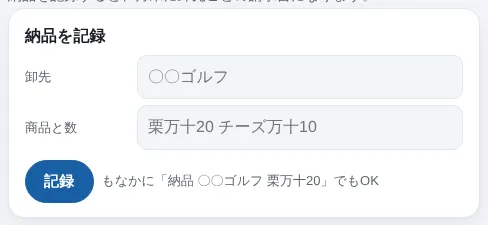
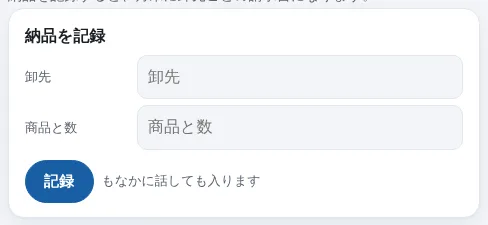
v57 例文・ガイド写真
Claude-Session: https://claude.ai/code/session_01RKx6zNUvUiXYPgLThj1DPE

Changed region(s): [[0.3074, 0.7778, 0.7684, 0.84], [0.3074, 0.5289, 0.6455, 0.5911], [0.3074, 0.3111, 0.4611, 0.3733]]

diff --git a/app/app.js b/app/app.js
@@ -107,7 +107,7 @@ function renderToday() {
   renderHero(q); renderMenu(q); renderGreet(); renderHomeProds();
   renderTodo(list); renderStart(); renderMemos(); renderHomeEvents(); renderBar(); renderCal(); renderReg();
   $('made').innerHTML = D.made.length ? `<ul class="tl">${D.made.map(m => `<li><span class="tt">${new Date(m.t).toLocaleDateString('ja-JP', { month: 'numeric', day: 'numeric' })}</span><span>${esc(m.text)}</span></li>`).join('')}</ul>`
-    : '<p class="k" style="margin:0">まだありません。夕方に' + VIA + '「栗万十 90、チーズ万十 100」のように送ると、ここに出ます</p>';
+    : '<p class="k" style="margin:0">まだありません。作った数をもなかに話すと、ここに出ます</p>';
 }
 
 // ---------- ホーム: 今日やること(1本のリスト。期限が近いもの・大事なものが上) ----------
@@ -160,22 +160,22 @@ function renderStart() {
 function renderMemos() {
   const box = $('memos'), ms = D.memos || [], me = profileName || '';
   box.innerHTML = ms.length ? `<div class="card" style="padding:0">${ms.map(m => `<div class="memo"><div class="mb"><p>${esc(m.text)}</p><span class="k">${esc(m.by)} · ${m.t ? new Date(m.t).toLocaleString('ja-JP', { month: 'numeric', day: 'numeric', hour: '2-digit', minute: '2-digit' }) : ''}${m.seen.length ? ' · 見た: ' + m.seen.map(esc).join('、') : ''}</span></div><span class="acts">${m.seen.includes(me) ? '' : `<button class="btn sm" type="button" data-seen="${m.row}">見た</button>`}<button class="btn ghost sm" type="button" data-done="${m.row}">済</button></span></div>`).join('')}</div>`
-    : `<div class="card"><p class="k" style="margin:0">伝言はありません。「＋ 書く」か、もなかに「田中さんから栗万十30個の注文、明日10時に受け取り、って伝えておいて」と話すと、お店のみんなのホームに出ます。</p></div>`;
+    : `<div class="card"><p class="k" style="margin:0">伝言はありません。「＋ 書く」で、お店のみんなのホームに出ます。</p></div>`;
   box.querySelectorAll('[data-seen]').forEach(b => b.onclick = () => setValueX({ field: 'memo', value: { row: +b.dataset.seen } }));
   box.querySelectorAll('[data-done]').forEach(b => b.onclick = () => setValueX({ field: 'memo', value: { row: +b.dataset.done, done: true } }));
 }
 $('memo-add').onclick = () => {
   const box = $('memos'); if ($('memo-form')) { $('memo-form').remove(); return; }
-  box.insertAdjacentHTML('afterbegin', `<div class="card" id="memo-form"><textarea id="memo-text" rows="2" placeholder="例: 田中さんから栗万十30個、明日10時受け取り" style="width:100%;box-sizing:border-box;font:inherit;font-size:15px;padding:8px;border:1px solid var(--line);border-radius:10px;background:var(--bg);color:var(--ink)"></textarea><div class="ask"><button class="btn" type="button" id="memo-go">残す</button><button class="btn ghost" type="button" id="memo-cancel">やめる</button><span class="k">お店のみんなにLINEでも届きます</span></div></div>`);
+  box.insertAdjacentHTML('afterbegin', `<div class="card" id="memo-form"><textarea id="memo-text" rows="2" placeholder="伝言を書く" style="width:100%;box-sizing:border-box;font:inherit;font-size:15px;padding:8px;border:1px solid var(--line);border-radius:10px;background:var(--bg);color:var(--ink)"></textarea><div class="ask"><button class="btn" type="button" id="memo-go">残す</button><button class="btn ghost" type="button" id="memo-cancel">やめる</button><span class="k">お店のみんなにLINEでも届きます</span></div></div>`);
   $('memo-text').focus();
   $('memo-cancel').onclick = () => $('memo-form').remove();
   $('memo-go').onclick = () => { const v = $('memo-text').value.trim(); if (!v) { $('memo-text').focus(); return; } setValueX({ field: 'memo', value: { text: v } }); };
 };
 // 予定: ホームにはこれからの5件、予定の画面には月の表と一覧
-const evRow = (e, del) => `<li style="--c:var(--c-${EVK[e.kind] || 'set'})"${e.src === 'gcal' ? ' title="Googleカレンダーの予定"' : ''}><span class="ed"><b>${+e.date.slice(8)}</b><small>${+e.date.slice(5, 7)}月 ${['日', '月', '火', '水', '木', '金', '土'][new Date(e.date.slice(0, 4), +e.date.slice(5, 7) - 1, +e.date.slice(8)).getDay()]}</small></span><span class="ek">${esc(e.kind)}</span><span class="et">${esc(e.text)}${e.who ? `<span class="k">${esc(e.who)}</span>` : ''}${e.src === 'gcal' ? '<span class="k">Googleカレンダーから</span>' : e.by ? `<span class="k">${avatar(e.by, true)} ${esc(e.by)}</span>` : ''}${(e.notes || []).length ? `<ul class="notes">${e.notes.map(n => `<li>${esc(n)}</li>`).join('')}</ul>` : ''}${del && e.src !== 'gcal' ? `<span class="ask" style="margin-top:6px"><input class="note-in" data-row="${e.row}" placeholder="ひと言(8時に出発、袋は多めに…)" style="flex:1;min-width:0;font-size:13px;padding:5px 8px"><button class="btn ghost sm" type="button" data-note="${e.row}">足す</button></span>` : ''}</span>${del && e.src !== 'gcal' ? `<button class="x" type="button" data-del="${e.row}" aria-label="消す">✕</button>` : ''}</li>`;
+const evRow = (e, del) => `<li style="--c:var(--c-${EVK[e.kind] || 'set'})"${e.src === 'gcal' ? ' title="Googleカレンダーの予定"' : ''}><span class="ed"><b>${+e.date.slice(8)}</b><small>${+e.date.slice(5, 7)}月 ${['日', '月', '火', '水', '木', '金', '土'][new Date(e.date.slice(0, 4), +e.date.slice(5, 7) - 1, +e.date.slice(8)).getDay()]}</small></span><span class="ek">${esc(e.kind)}</span><span class="et">${esc(e.text)}${e.who ? `<span class="k">${esc(e.who)}</span>` : ''}${e.src === 'gcal' ? '<span class="k">Googleカレンダーから</span>' : e.by ? `<span class="k">${avatar(e.by, true)} ${esc(e.by)}</span>` : ''}${(e.notes || []).length ? `<ul class="notes">${e.notes.map(n => `<li>${esc(n)}</li>`).join('')}</ul>` : ''}${del && e.src !== 'gcal' ? `<span class="ask" style="margin-top:6px"><input class="note-in" data-row="${e.row}" placeholder="ひと言" style="flex:1;min-width:0;font-size:13px;padding:5px 8px"><button class="btn ghost sm" type="button" data-note="${e.row}">足す</button></span>` : ''}</span>${del && e.src !== 'gcal' ? `<button class="x" type="button" data-del="${e.row}" aria-label="消す">✕</button>` : ''}</li>`;
 function renderHomeEvents() {
   const box = $('home-events'), t = todayS(), evs = (D.events || []).filter(e => e.date >= t).slice(0, 5);
-  box.innerHTML = evs.length ? `<ul class="evl">${evs.map(e => evRow(e)).join('')}</ul>` : `<p class="k" style="margin:0">これからの予定はありません。もなかに「25日に〇〇ゴルフに納品」と話すか、予定の画面で足せます。</p>`;
+  box.innerHTML = evs.length ? `<ul class="evl">${evs.map(e => evRow(e)).join('')}</ul>` : `<p class="k" style="margin:0">これからの予定はありません。予定の画面で足せます。</p>`;
   box.style.padding = evs.length ? '0' : '';
 }
 $('ev-more').onclick = () => show('cal');
@@ -233,7 +233,7 @@ function renderCal() {
 function evForm(date) {
   const f = $('ev-form'); f.hidden = false;
   const tos = Object.keys(Object.assign({}, ...Object.values(D.ws || {}))).filter(Boolean);
-  f.innerHTML = `<div class="fld"><span class="k">日付</span><input id="ev-date" type="date" value="${esc(date || todayS())}"><span class="k">種類</span><div class="seg" id="ev-kind">${['納品', '催事', '休み', 'その他'].map((k, i) => `<button type="button" data-v="${k}" aria-pressed="${i === 0}">${k}</button>`).join('')}</div><span class="k">内容</span><input id="ev-text" placeholder="例: 栗万十20 チーズ万十10 / 文化祭 / 臨時休業"><span class="k">相手・誰</span><input id="ev-who" list="ev-tos" placeholder="卸先。休みならスタッフの名前(なくてもOK)"><datalist id="ev-tos">${tos.map(x => `<option value="${esc(x)}">`).join('')}</datalist></div><div class="ask"><button class="btn" type="button" id="ev-go">予定に入れる</button><button class="btn ghost" type="button" id="ev-cancel">やめる</button></div>`;
+  f.innerHTML = `<div class="fld"><span class="k">日付</span><input id="ev-date" type="date" value="${esc(date || todayS())}"><span class="k">種類</span><div class="seg" id="ev-kind">${['納品', '催事', '休み', 'その他'].map((k, i) => `<button type="button" data-v="${k}" aria-pressed="${i === 0}">${k}</button>`).join('')}</div><span class="k">内容</span><input id="ev-text" placeholder="内容"><span class="k">相手・誰</span><input id="ev-who" list="ev-tos" placeholder="なくてもOK"><datalist id="ev-tos">${tos.map(x => `<option value="${esc(x)}">`).join('')}</datalist></div><div class="ask"><button class="btn" type="button" id="ev-go">予定に入れる</button><button class="btn ghost" type="button" id="ev-cancel">やめる</button></div>`;
   f.scrollIntoView({ behavior: 'smooth', block: 'start' });
   $('ev-kind').querySelectorAll('button').forEach(b => b.onclick = () => $('ev-kind').querySelectorAll('button').forEach(x => x.setAttribute('aria-pressed', x === b)));
   $('ev-cancel').onclick = () => { f.hidden = true; };
@@ -265,9 +265,9 @@ const telLink = n => { const c = contactOf(n); return c && c.tel ? ` <a href="te
 function contactsBox() {
   const cs = D.contacts || [], sup = Object.keys(Object.assign({}, ...Object.values(D.months || {}).map(m => m.by))), tos = Object.keys(Object.assign({}, ...Object.values(D.ws || {})));
   const cand = [...new Set(sup.concat(tos))].filter(n => !cs.find(c => c.name === n));
-  return `<p class="k" style="margin:0 0 6px">支払いや卸の画面に電話のボタンと振込先が出ます。請求書を撮ると自動で入り、もなかに「三浦商事の電話は03-1234-5678」と話しても入ります</p>
+  return `<p class="k" style="margin:0 0 6px">支払いや卸の画面に電話のボタンと振込先が出ます。請求書を撮ると自動で入ります</p>
     ${cs.map(c => `<div class="contact-row"><b>${esc(c.name)}</b><span class="k">${esc(c.kind)}</span><span>${c.tel ? `<a href="tel:${esc(c.tel.replace(/[^\\d+]/g, ''))}">☎ ${esc(c.tel)}</a>` : '<span class="k">電話なし</span>'}</span><span class="k">${esc(c.person)}</span><button class="btn ghost sm" type="button" data-ct-edit="${esc(c.name)}">直す</button>${c.bank || c.number ? `<div class="k" style="grid-column:1/-1;margin-top:-4px">振込先: ${esc([c.bank, c.branch, c.type, c.number, c.holder].filter(Boolean).join(' '))}</div>` : ''}</div>`).join('')}
-    <div id="ct-form" style="margin-top:10px"><div class="fld"><span class="k">名前</span><input id="ct-name" list="ct-cand" placeholder="業者・卸先の名前"><datalist id="ct-cand">${cand.map(n => `<option value="${esc(n)}">`).join('')}</datalist><span class="k">種類</span><div class="seg" id="ct-kind">${['業者', '卸先', 'その他'].map((k, i) => `<button type="button" data-v="${k}" aria-pressed="${i === 0}">${k}</button>`).join('')}</div><span class="k">電話</span><input id="ct-tel" inputmode="tel" placeholder="03-1234-5678"><span class="k">担当</span><input id="ct-person" placeholder="山田さん"><span class="k">振込先</span><div style="display:grid;grid-template-columns:1fr 1fr;gap:6px"><input id="ct-bank" placeholder="銀行"><input id="ct-branch" placeholder="支店"><select id="ct-type" class="sel"><option value="">種別</option><option>普通</option><option>当座</option></select><input id="ct-number" inputmode="numeric" placeholder="口座番号"><input id="ct-holder" placeholder="名義(カナ)" style="grid-column:1/-1"></div></div><p class="k" style="margin:4px 0 0">請求書を撮ると、電話・担当・振込先は自動で入ります(読めなかったところだけ空のまま)</p><div class="ask"><button class="btn" type="button" id="ct-save">連絡先を保存</button><button class="btn ghost" type="button" id="ct-del" hidden>消す</button></div></div>`;
+    <div id="ct-form" style="margin-top:10px"><div class="fld"><span class="k">名前</span><input id="ct-name" list="ct-cand" placeholder="業者・卸先の名前"><datalist id="ct-cand">${cand.map(n => `<option value="${esc(n)}">`).join('')}</datalist><span class="k">種類</span><div class="seg" id="ct-kind">${['業者', '卸先', 'その他'].map((k, i) => `<button type="button" data-v="${k}" aria-pressed="${i === 0}">${k}</button>`).join('')}</div><span class="k">電話</span><input id="ct-tel" inputmode="tel" placeholder="電話番号"><span class="k">担当</span><input id="ct-person" placeholder="担当者"><span class="k">振込先</span><div style="display:grid;grid-template-columns:1fr 1fr;gap:6px"><input id="ct-bank" placeholder="銀行"><input id="ct-branch" placeholder="支店"><select id="ct-type" class="sel"><option value="">種別</option><option>普通</option><option>当座</option></select><input id="ct-number" inputmode="numeric" placeholder="口座番号"><input id="ct-holder" placeholder="名義(カナ)" style="grid-column:1/-1"></div></div><p class="k" style="margin:4px 0 0">請求書を撮ると、電話・担当・振込先は自動で入ります(読めなかったところだけ空のまま)</p><div class="ask"><button class="btn" type="button" id="ct-save">連絡先を保存</button><button class="btn ghost" type="button" id="ct-del" hidden>消す</button></div></div>`;
 }
 function bindContacts(root) {
   const kindSel = k => root.querySelectorAll('#ct-kind button').forEach(x => x.setAttribute('aria-pressed', x.dataset.v === k));
@@ -382,7 +382,8 @@ function renderHero(q) {
   if (lm) { const by = D.months[lm].by, top = Object.keys(by).sort((a, b) => by[b] - by[a]).slice(0, 2);
     cards.push({ cls: '', c: 'book', t: `${+lm.slice(5) || lm}月の仕入れ`, v: `${Math.round(D.months[lm].total).toLocaleString('ja-JP')}<small>円</small>`, k: top.map(esc).join('・'), go: () => show('book') }); }
   const h = $('hero');
-  if (noMoney()) { h.innerHTML = ''; h.previousElementSibling.hidden = true; $('hero-dots').innerHTML = ''; return; }
+  h.previousElementSibling.hidden = noMoney();
+  if (noMoney()) { h.innerHTML = ''; $('hero-dots').innerHTML = ''; return; }
   h.innerHTML = cards.map((c, i) => `<div class="hc ${c.cls}" role="button" tabindex="0" data-i="${i}"${c.c ? ` style="--c:var(--c-${c.c})"` : ''}><div class="t">${c.t}</div><div class="v">${c.v}</div><div class="k">${c.k}</div><div class="go">くわしく ›</div></div>`).join('');
   h.querySelectorAll('.hc').forEach(el => el.onclick = () => cards[el.dataset.i].go());
   $('hero-dots').innerHTML = cards.length > 1 ? cards.map((_, i) => `<i class="${i ? '' : 'on'}"></i>`).join('') : '';
@@ -800,12 +801,12 @@ function matEdit(name, preset) {
   setCrumb([name || '材料を足す']);
   matBox(`<p style="margin:0 0 8px"><b>${name ? esc(name) : '材料(商品)を足す'}</b></p>${kindList()}
     <div style="display:grid;gap:8px">
-    ${name ? '' : `<label>名前(袋に書いてある商品名)${inp('me-name', m.name, '例 ハイラード')}</label>`}
+    ${name ? '' : `<label>名前(袋に書いてある商品名)${inp('me-name', m.name, '商品名')}</label>`}
     <label>種類${inp('me-kind', m.kind, '例 マーガリン・強力粉・生クリーム')}</label>
     <label>規格${inp('me-spec', m.spec, '例 25kg・500g×20')}</label>
-    <label>業者${inp('me-sup', m.supplier, '例 三浦商事')}</label>
+    <label>業者${inp('me-sup', m.supplier, '業者名')}</label>
     <label>中身${inp('me-attrs', m.attrs, '例 乳脂肪分47%・発酵・無塩・植物性')}</label>
-    ${name ? `<label>別名を足す(レシピや請求書での書き方)${inp('me-alias', '', '例 ブルスター')}</label>${m.aliases && m.aliases.length ? `<span class="k">いまの別名: ${m.aliases.map(esc).join('、')}</span>` : ''}` : `<label>値段(1kgあたり・分かれば)${inp('me-ppkg', '', '例 600', '8em')}</label>`}
+    ${name ? `<label>別名を足す(レシピや請求書での書き方)${inp('me-alias', '', '商品名')}</label>${m.aliases && m.aliases.length ? `<span class="k">いまの別名: ${m.aliases.map(esc).join('、')}</span>` : ''}` : `<label>値段(1kgあたり・分かれば)${inp('me-ppkg', '', '例 600', '8em')}</label>`}
     </div><p class="k" style="margin:8px 0">原材料・アレルゲン・栄養は、袋の裏を撮ると本物に置きかわります。それまでは同じ種類の値で仮に出して「要確認」にします。</p>
     <button class="btn" type="button" id="me-go">保存</button> <button class="btn ghost" type="button" id="me-x">やめる</button>`);
   $('me-x').onclick = matBoxClose;
@@ -971,10 +972,10 @@ function openPrint(html) {
 function renderWs() {
   const ws = D.ws || {}, ms = Object.keys(ws).sort().reverse(), chips = $('ws-chips');
   const tos = [...new Set(ms.flatMap(m => Object.keys(ws[m])))];
-  $('ws-add').innerHTML = `<p style="margin:0 0 6px"><b>納品を記録</b></p><div class="fld"><span class="k">卸先</span><input id="ws-to" list="ws-tos" placeholder="〇〇ゴルフ"><datalist id="ws-tos">${tos.map(t => `<option value="${esc(t)}">`).join('')}</datalist>
-    <span class="k">商品と数</span><input id="ws-items" placeholder="栗万十20 チーズ万十10"></div><div class="ask"><button class="btn" type="button" id="ws-go">記録</button><span class="k">もなかに「〇〇ゴルフに栗万十20持ってった」と話してもOK</span></div>`;
+  $('ws-add').innerHTML = `<p style="margin:0 0 6px"><b>納品を記録</b></p><div class="fld"><span class="k">卸先</span><input id="ws-to" list="ws-tos" placeholder="卸先"><datalist id="ws-tos">${tos.map(t => `<option value="${esc(t)}">`).join('')}</datalist>
+    <span class="k">商品と数</span><input id="ws-items" placeholder="商品と数"></div><div class="ask"><button class="btn" type="button" id="ws-go">記録</button><span class="k">もなかに話しても入ります</span></div>`;
   $('ws-go').onclick = () => { const to = $('ws-to').value.trim(), it = $('ws-items').value.trim(); if (!to || !it) { chat('卸先と、商品と数を入れてください'); return; } setValueX({ field: 'deliv', value: to + ' ' + it }); };
-  if (!ms.length) { chips.innerHTML = ''; $('ws-list').innerHTML = emptyBox('ws', 'まだ納品の記録がありません', '上の欄に卸先と商品・数を入れるか、もなかに「〇〇ゴルフに栗万十20持ってった」と話すと、ここに月ごとに並びます。'); return; }
+  if (!ms.length) { chips.innerHTML = ''; $('ws-list').innerHTML = emptyBox('ws', 'まだ納品の記録がありません', '上の欄に卸先と商品・数を入れると、ここに月ごとに並びます。'); return; }
   const sel = chips.dataset.m && ms.includes(chips.dataset.m) ? chips.dataset.m : ms[0];
   chips.innerHTML = ms.map(m => `<button class="chip" type="button" data-m="${m}" aria-pressed="${m === sel}">${m.replace('-', '年')}月</button>`).join('');
   chips.querySelectorAll('[data-m]').forEach(b => b.onclick = () => { chips.dataset.m = b.dataset.m; renderWs(); });

diff --git a/app/index.html b/app/index.html
@@ -523,7 +523,7 @@ section.inR{animation:inR .12s ease-out}section.inL{animation:inL .12s ease-out}
     <div class="shop"><img src="logo_mark.webp?v=1" alt="" onerror="this.remove()"><span id="shop">お店</span></div>
     <div class="date" id="date"></div>
   </div>
-  <div class="appbar"><div><span class="sname" id="shop2"></span><span class="date" id="date2"></span><form class="askbar" id="askbar-top" autocomplete="off"><svg viewBox="0 0 24 24" fill="none" stroke="currentColor" stroke-width="2" stroke-linecap="round" stroke-linejoin="round" aria-hidden="true"><path d="M4 6.5h16M4 12h16M4 17.5h10"/></svg><input id="ask-top" placeholder="もなかに話す(例: さっき栗万十20焼いた)" aria-label="もなかに聞く"><button class="btn" type="submit">送る</button></form></div></div>
+  <div class="appbar"><div><span class="sname" id="shop2"></span><span class="date" id="date2"></span><form class="askbar" id="askbar-top" autocomplete="off"><svg viewBox="0 0 24 24" fill="none" stroke="currentColor" stroke-width="2" stroke-linecap="round" stroke-linejoin="round" aria-hidden="true"><path d="M4 6.5h16M4 12h16M4 17.5h10"/></svg><input id="ask-top" placeholder="もなかに話す" aria-label="もなかに聞く"><button class="btn" type="submit">送る</button></form></div></div>
 
   <div class="bar" id="bar" hidden role="status"></div>
   <div class="crumb" id="crumb" hidden aria-label="今いる場所"></div>
@@ -532,7 +532,7 @@ section.inR{animation:inR .12s ease-out}section.inL{animation:inL .12s ease-out}
 
   <section id="t-today" hidden>
     <div class="greet"><h1 id="greet-h">こんにちは</h1><p id="greet-p">何をしますか?</p></div>
-    <form class="askbar" id="askbar-home" autocomplete="off"><svg viewBox="0 0 24 24" fill="none" stroke="currentColor" stroke-width="2" stroke-linecap="round" stroke-linejoin="round" aria-hidden="true"><path d="M4 6.5h16M4 12h16M4 17.5h10"/></svg><input id="ask-home" placeholder="もなかに話す(例: さっき栗万十20焼いた)" aria-label="もなかに聞く"><button class="btn" type="submit">送る</button></form>
+    <form class="askbar" id="askbar-home" autocomplete="off"><svg viewBox="0 0 24 24" fill="none" stroke="currentColor" stroke-width="2" stroke-linecap="round" stroke-linejoin="round" aria-hidden="true"><path d="M4 6.5h16M4 12h16M4 17.5h10"/></svg><input id="ask-home" placeholder="もなかに話す" aria-label="もなかに聞く"><button class="btn" type="submit">送る</button></form>
     <div class="menu" id="menu"></div>
     <div class="card start" id="start" hidden></div>
     <div class="cols">
@@ -563,7 +563,7 @@ section.inR{animation:inR .12s ease-out}section.inL{animation:inL .12s ease-out}
   </section>
 
   <section id="t-cal" hidden>
-    <div class="ph"><div><h1>予定</h1><p class="lead">納品・催事・休み。もなかに「予定 10/25 〇〇ゴルフ 納品」と話しても入ります。</p></div><div class="acts"><button class="btn" type="button" id="ev-add-top">＋ 予定を足す</button></div></div>
+    <div class="ph"><div><h1>予定</h1><p class="lead">納品・催事・休み。もなかに話しても入ります。</p></div><div class="acts"><button class="btn" type="button" id="ev-add-top">＋ 予定を足す</button></div></div>
     <div class="card" id="ev-form" hidden></div>
     <div id="cal"></div>
   </section>
@@ -642,7 +642,7 @@ section.inR{animation:inR .12s ease-out}section.inL{animation:inL .12s ease-out}
       <div class="ask"><button class="btn" type="button" id="ct-go">送る</button><span class="k" id="ct-via">LINEで「問い合わせ 〜」と送ってもOK</span></div>
     </div>
     <h1 class="sub" id="words-h">もなかに話す</h1>
-    <div class="card"><p style="margin:0">決まった言い方はありません。ふだんの言葉で話しかけてください。</p><p class="k" style="margin:6px 0 0">例: 「さっき栗万十20焼いた」「三浦さんに払っといた」「冷蔵3度だった」「昨日ゴルフ場に栗万十20持ってった」「田中さんから栗万十30個の注文、明日10時」「来週の火曜は休み」「今月どう?」「栗万十の売値いくらにしたらいい?」</p><p class="k" style="margin:6px 0 0">記録の前には「〜として記録しますか?」と確かめます。「はい」で確定した言い方は覚えて、次からは同じ意味に取ります。分からないときは聞き返します。</p></div>
+    <div class="card"><p style="margin:0">決まった言い方はありません。ふだんの言葉で話しかけてください。</p><p class="k" style="margin:6px 0 0">作った数、払ったこと、冷蔵庫の温度、納品、予定、「今月どう?」のような相談まで、話しかけるだけで大丈夫です。</p><p class="k" style="margin:6px 0 0">記録の前には「〜として記録しますか?」と確かめます。「はい」で確定した言い方は覚えて、次からは同じ意味に取ります。分からないときは聞き返します。</p></div>
   </section>
   <p class="foot" id="foot">試作。キャラの絵はAtelier SAISPEのLINE絵文字。</p>
 </div>
@@ -672,6 +672,6 @@ section.inR{animation:inR .12s ease-out}section.inL{animation:inL .12s ease-out}
 </div></nav>
 
 <script src="https://static.line-scdn.net/liff/edge/2/sdk.js"></script>
-<script src="app.js?v=56"></script>
+<script src="app.js?v=57"></script>
 </body>
 </html>
